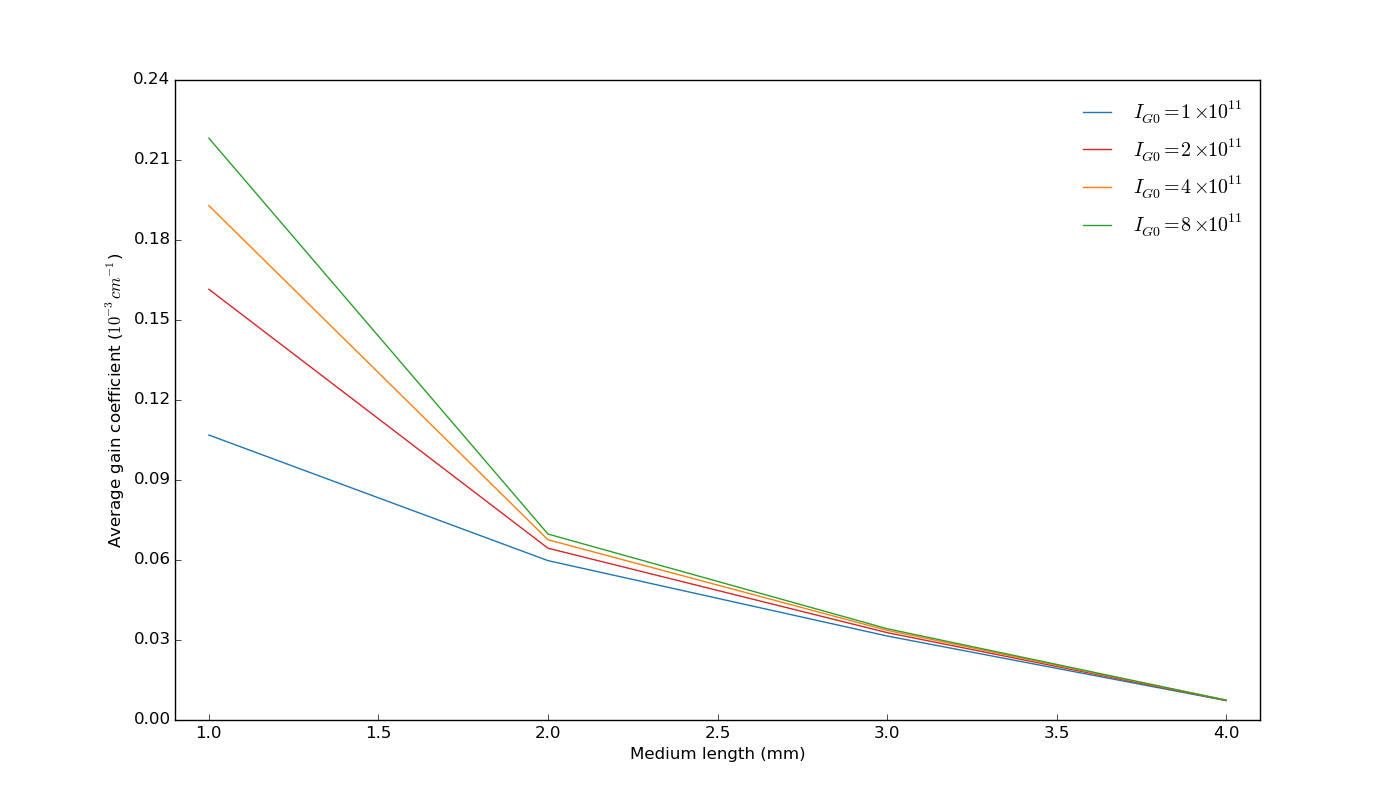
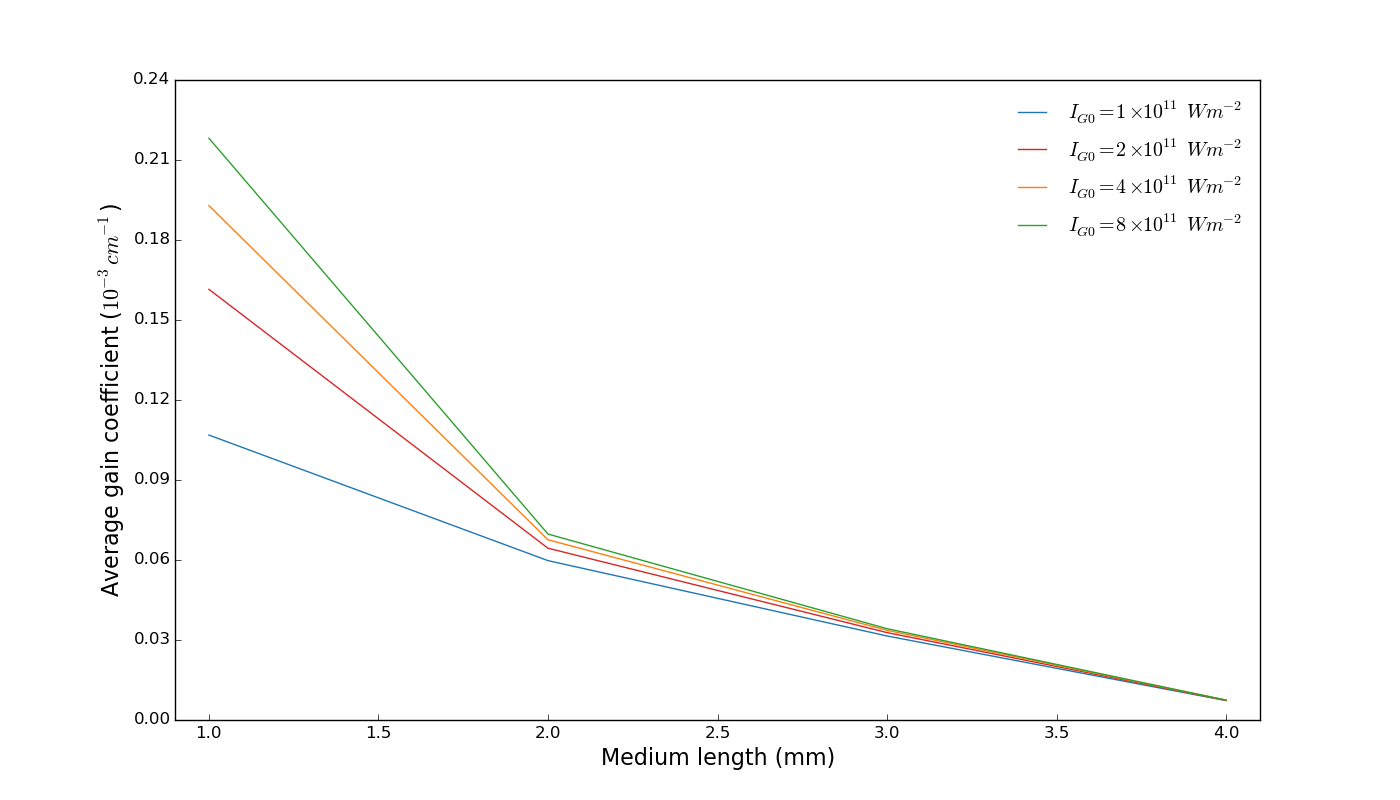
Fixes for plot: fontsize, units

Changed region(s): [[0.7679, 0.125, 0.8907, 0.3125], [0.0614, 0.3125, 0.0921, 0.75], [0.43, 0.9375, 0.5836, 0.9688]]

diff --git a/.graphs/18Apr/gain1D.py b/.graphs/18Apr/gain1D.py
@@ -56,14 +56,14 @@ n_L4_8IG0 = N_t*sig_em*np.mean(np.mean(n_L4_8IG0, axis=1), axis=0)
 
 fig, ax = plt.subplots(figsize=(14,8))
 
-ax.plot([1, 2, 3, 4], [n_L1_IG0*1e3, n_L2_IG0*1e3, n_L3_IG0*1e3, n_L4_IG0*1e3], color=tableau20[0], label=r'$I_{G0}=1\times 10^{11}$')
-ax.plot([1, 2, 3, 4], [n_L1_2IG0*1e3, n_L2_2IG0*1e3, n_L3_2IG0*1e3, n_L4_2IG0*1e3], color=tableau20[6], label=r'$I_{G0}=2\times 10^{11}$')
-ax.plot([1, 2, 3, 4], [n_L1_4IG0*1e3, n_L2_4IG0*1e3, n_L3_4IG0*1e3, n_L4_4IG0*1e3], color=tableau20[2], label=r'$I_{G0}=4\times 10^{11}$')
-ax.plot([1, 2, 3, 4], [n_L1_8IG0*1e3, n_L2_8IG0*1e3, n_L3_8IG0*1e3, n_L4_4IG0*1e3], color=tableau20[4], label=r'$I_{G0}=8\times 10^{11}$')
+ax.plot([1, 2, 3, 4], [n_L1_IG0*1e3, n_L2_IG0*1e3, n_L3_IG0*1e3, n_L4_IG0*1e3], color=tableau20[0], label=r'$I_{G0}=1\times 10^{11}\/Wm^{-2}$')
+ax.plot([1, 2, 3, 4], [n_L1_2IG0*1e3, n_L2_2IG0*1e3, n_L3_2IG0*1e3, n_L4_2IG0*1e3], color=tableau20[6], label=r'$I_{G0}=2\times 10^{11}\/Wm^{-2}$')
+ax.plot([1, 2, 3, 4], [n_L1_4IG0*1e3, n_L2_4IG0*1e3, n_L3_4IG0*1e3, n_L4_4IG0*1e3], color=tableau20[2], label=r'$I_{G0}=4\times 10^{11}\/Wm^{-2}$')
+ax.plot([1, 2, 3, 4], [n_L1_8IG0*1e3, n_L2_8IG0*1e3, n_L3_8IG0*1e3, n_L4_4IG0*1e3], color=tableau20[4], label=r'$I_{G0}=8\times 10^{11}\/Wm^{-2}$')
 ax.set_xlim((0.9, 4.1))
 ax.set_ylim((0, 0.24))
-ax.set_xlabel('Medium length (mm)')
-ax.set_ylabel('Average gain coefficient ($10^{-3}cm^{-1}$)')
+ax.set_xlabel('Medium length (mm)', fontsize=16)
+ax.set_ylabel('Average gain coefficient ($10^{-3}cm^{-1}$)', fontsize=16)
 ax.set_yticks(np.arange(0.0, 0.25, 0.03))
 
 lg = ax.legend()
